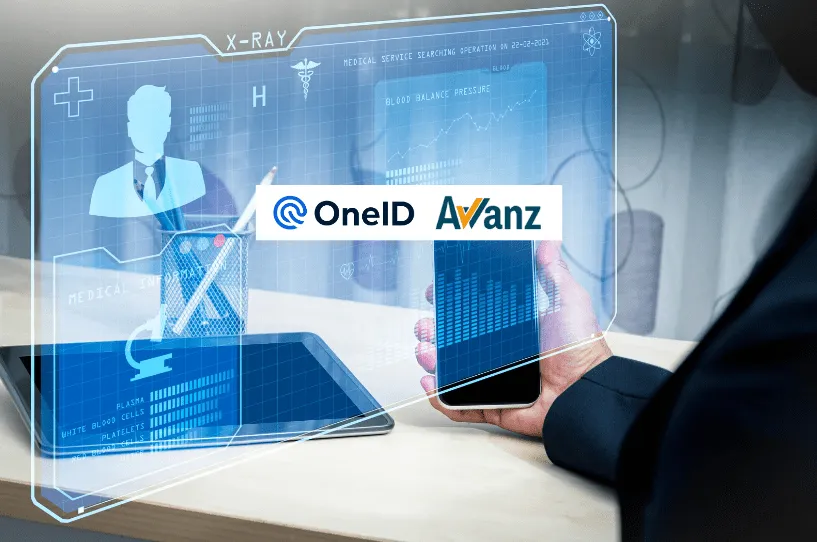
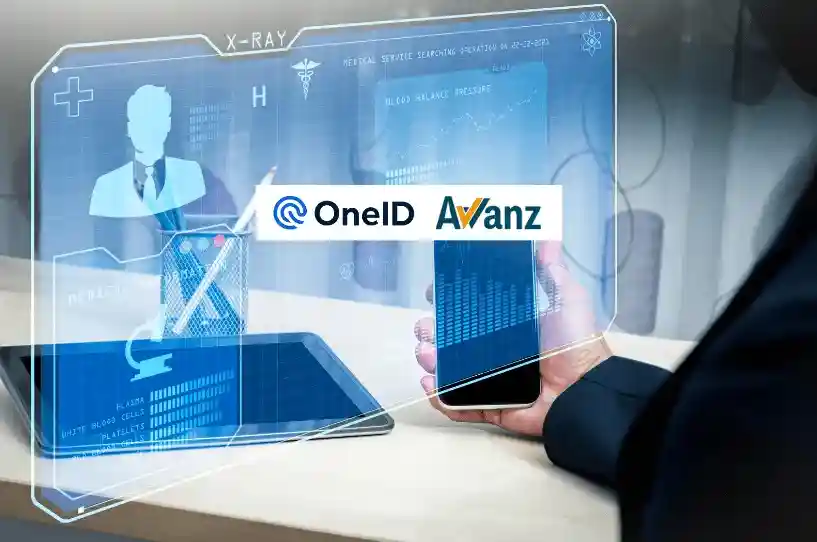
Testing1.92

diff --git a/resources/views/pages/develop/nibble.blade.php b/resources/views/pages/develop/nibble.blade.php
@@ -14,7 +14,7 @@ Revision Nibble & Learn - Avvanz Global
 @include('layouts.navbar')
 
 <!-- Hero Section -->
-<section class="bg-image">
+<section class="bg-image-2">
     <div class="container padding-vertical">
         <div class="row text-white">
             <div class="col-md-7 offset-auto">

diff --git a/resources/views/pages/develop/star.blade.php b/resources/views/pages/develop/star.blade.php
@@ -10,7 +10,7 @@ Star Trainers - Avvanz Global
 @include('layouts.navbar')
 
 <!-- Hero Section -->
-<section class="bg-image">
+<section class="bg-image-2">
     <div class="container padding-vertical">
         <div class="row text-white">
             <div class="col-md-7 offset-auto">

diff --git a/resources/views/pages/develop/learnGlobal.blade.php b/resources/views/pages/develop/learnGlobal.blade.php
@@ -10,7 +10,7 @@ LearnGlobal - Avvanz Global
 @include('layouts.navbar')
 
 <!-- Hero Section -->
-<section class="bg-image">
+<section class="bg-image-1">
     <div class="container padding-vertical">
         <div class="row text-white">
             <div class="col-md-7 offset-auto">

diff --git a/resources/views/pages/develop/index.blade.php b/resources/views/pages/develop/index.blade.php
@@ -14,7 +14,7 @@ Develop - Avvanz Global
 @include('layouts.navbar')
 
 <!-- Hero Section -->
-<section class="bg-image">
+<section class="bg-image-2">
     <div class="container padding-vertical">
         <div class="row text-white">
             <div class="col-md-7 offset-auto">
